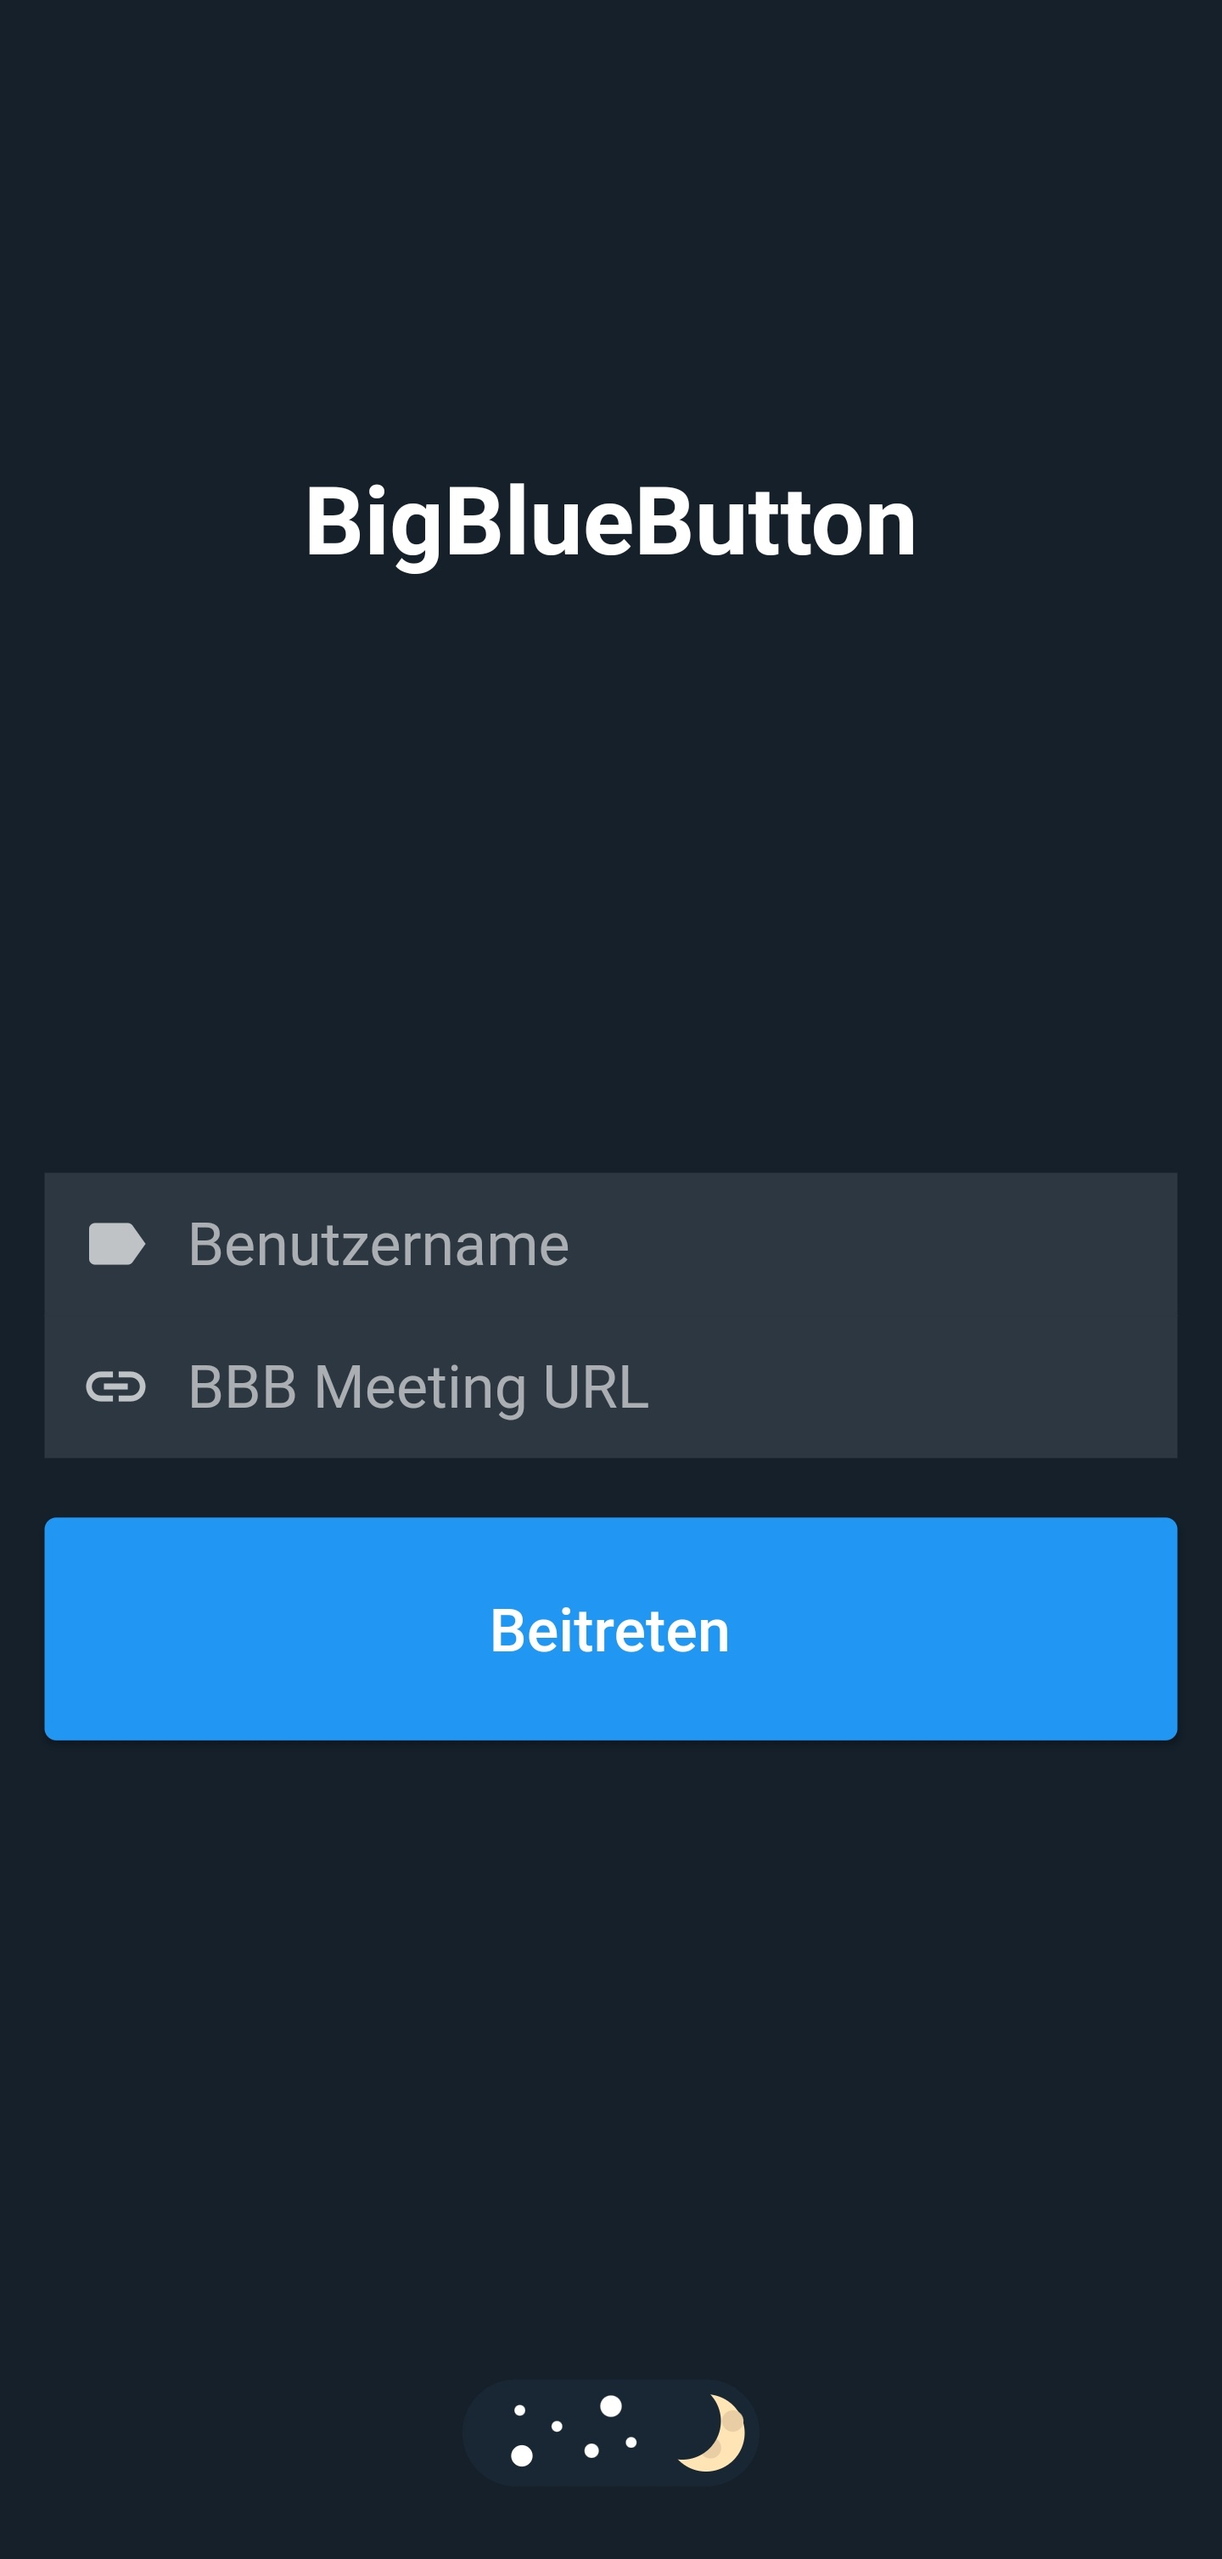
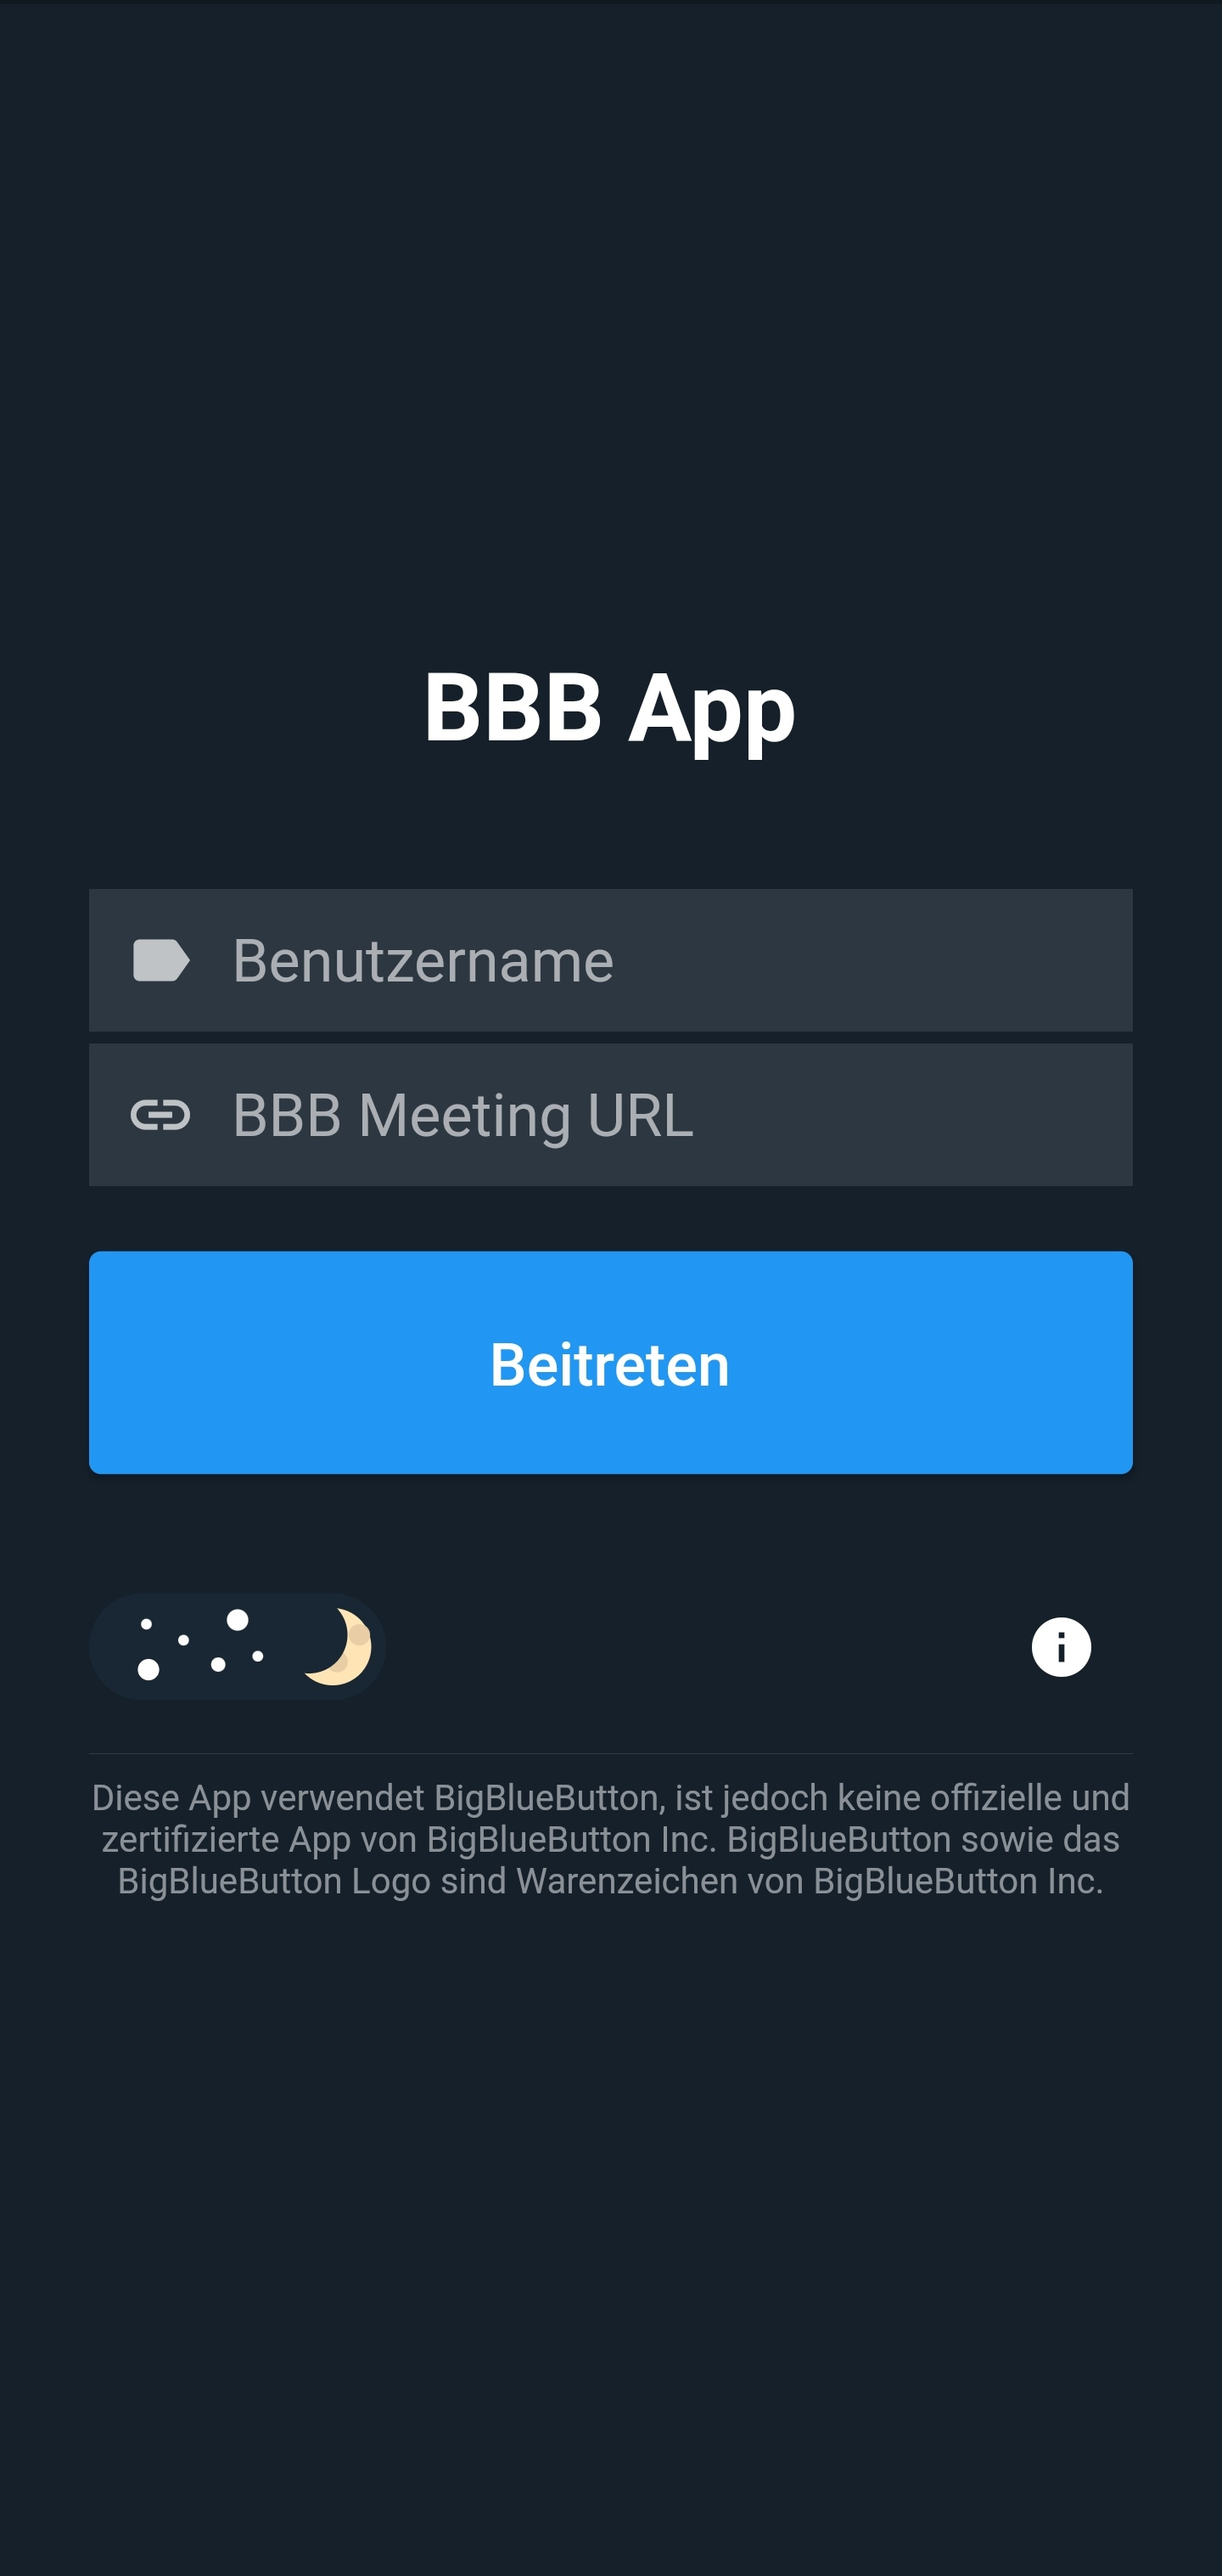
#58 fixed

diff --git a/lib/src/view/start/start_view.dart b/lib/src/view/start/start_view.dart
@@ -41,44 +41,64 @@ class _StartViewState extends State<StartView> {
   @override
   Widget build(BuildContext context) {
     return Scaffold(
-      body: SizedBox.expand(
-        child: Padding(
-          child: Column(
-            crossAxisAlignment: CrossAxisAlignment.center,
-            children: [
-              Expanded(child: SizedBox(), flex: 1),
-              Text(
-                AppLocalizations.of(context).get("bigbluebutton"),
-                style: TextStyle(fontWeight: FontWeight.bold, fontSize: 32.0),
-              ),
-              Expanded(child: SizedBox(), flex: 1),
-              Builder(builder: (context) {
-                return _buildForm(context);
-              }),
-              Expanded(child: SizedBox(), flex: 1),
-              Padding(
-                padding: EdgeInsets.only(top: 5, bottom: 15),
-                child: Row(
-                  mainAxisAlignment: MainAxisAlignment.spaceBetween,
-                  children: [
-                    DayNightSwitcher(
-                      isDarkModeEnabled:
-                          Provider.of<AppStateNotifier>(context, listen: false)
-                              .darkModeEnabled,
-                      onStateChanged: (isDarkModeEnabled) =>
-                          Provider.of<AppStateNotifier>(context, listen: false)
-                              .darkModeEnabled = isDarkModeEnabled,
-                    ),
-                    IconButton(
-                      icon: Icon(Icons.info),
-                      onPressed: () => showAboutDialog(context: context),
-                    ),
-                  ],
+      body: Center(
+        child: SingleChildScrollView(
+          child: Padding(
+            padding: EdgeInsets.symmetric(horizontal: 30),
+            child: Column(
+              children: [
+                Padding(
+                  padding: EdgeInsets.symmetric(vertical: 40),
+                  child: Text(
+                    AppLocalizations.of(context).get("app.title"),
+                    style:
+                        TextStyle(fontWeight: FontWeight.bold, fontSize: 32.0),
+                  ),
                 ),
-              ),
-            ],
+                Builder(builder: (context) {
+                  return _buildForm(context);
+                }),
+                Padding(
+                  padding: EdgeInsets.only(top: 30, bottom: 0),
+                  child: Row(
+                    mainAxisAlignment: MainAxisAlignment.spaceBetween,
+                    children: [
+                      DayNightSwitcher(
+                        isDarkModeEnabled: Provider.of<AppStateNotifier>(
+                                context,
+                                listen: false)
+                            .darkModeEnabled,
+                        onStateChanged: (isDarkModeEnabled) =>
+                            Provider.of<AppStateNotifier>(context,
+                                    listen: false)
+                                .darkModeEnabled = isDarkModeEnabled,
+                      ),
+                      IconButton(
+                        icon: Icon(Icons.info),
+                        onPressed: () => showAboutDialog(context: context),
+                      ),
+                    ],
+                  ),
+                ),
+                Divider(),
+                Padding(
+                  padding: EdgeInsets.only(bottom: 10),
+                  child: Text(
+                    AppLocalizations.of(context).get("start.bbb-trademark"),
+                    textAlign: TextAlign.center,
+                    style: TextStyle(
+                      color: Theme.of(context)
+                          .textTheme
+                          .bodyText1
+                          .color
+                          .withOpacity(0.5),
+                      fontSize: 12.0,
+                    ),
+                  ),
+                ),
+              ],
+            ),
           ),
-          padding: EdgeInsets.symmetric(horizontal: 15),
         ),
       ),
     );
@@ -92,7 +112,7 @@ class _StartViewState extends State<StartView> {
         children: [
           _buildUsernameTextField(),
           Visibility(
-              visible: _accessCodeVisible, child: _buildAccesscodeTextField()),
+              visible: _accessCodeVisible, child: _buildAccessCodeTextField()),
           _buildURLTextField(),
           _buildJoinButton(context),
         ],
@@ -102,55 +122,64 @@ class _StartViewState extends State<StartView> {
 
   /// Build the user name text field.
   Widget _buildUsernameTextField() {
-    return TextFormField(
-      decoration: InputDecoration(
-        hintText: AppLocalizations.of(context).get("login.username"),
-        border: InputBorder.none,
-        filled: true,
-        prefixIcon: Icon(Icons.label),
+    return Padding(
+      padding: EdgeInsets.symmetric(vertical: 2),
+      child: TextFormField(
+        decoration: InputDecoration(
+          hintText: AppLocalizations.of(context).get("login.username"),
+          border: InputBorder.none,
+          filled: true,
+          prefixIcon: Icon(Icons.label),
+        ),
+        style: TextStyle(fontSize: 20.0),
+        validator: (value) => value.isEmpty
+            ? AppLocalizations.of(context).get("login.username-missing")
+            : null,
+        controller: _usernameTextField,
       ),
-      style: TextStyle(fontSize: 20.0),
-      validator: (value) => value.isEmpty
-          ? AppLocalizations.of(context).get("login.username-missing")
-          : null,
-      controller: _usernameTextField,
     );
   }
 
   /// Build the accesscode text field.
-  Widget _buildAccesscodeTextField() {
-    return TextFormField(
-      decoration: InputDecoration(
-        hintText: AppLocalizations.of(context).get("login.accesscode"),
-        border: InputBorder.none,
-        filled: true,
-        prefixIcon: Icon(Icons.label),
+  Widget _buildAccessCodeTextField() {
+    return Padding(
+      padding: EdgeInsets.symmetric(vertical: 2),
+      child: TextFormField(
+        decoration: InputDecoration(
+          hintText: AppLocalizations.of(context).get("login.accesscode"),
+          border: InputBorder.none,
+          filled: true,
+          prefixIcon: Icon(Icons.vpn_key),
+        ),
+        style: TextStyle(fontSize: 20.0),
+        validator: (value) => value.isEmpty
+            ? AppLocalizations.of(context).get("login.accesscode-missing")
+            : null,
+        controller: _accesscodeTextField,
       ),
-      style: TextStyle(fontSize: 20.0),
-      validator: (value) => value.isEmpty
-          ? AppLocalizations.of(context).get("login.accesscode-missing")
-          : null,
-      controller: _accesscodeTextField,
     );
   }
 
   /// Build the text field where the user should input the BBB URL to join the meeting of.
   Widget _buildURLTextField() {
-    return TextFormField(
-      onChanged: (url) async {
-        _handleUrlUpdate(url);
-      },
-      decoration: InputDecoration(
-        hintText: AppLocalizations.of(context).get("login.url"),
-        border: InputBorder.none,
-        filled: true,
-        prefixIcon: Icon(Icons.link),
+    return Padding(
+      padding: EdgeInsets.symmetric(vertical: 2),
+      child: TextFormField(
+        onChanged: (url) async {
+          _handleUrlUpdate(url);
+        },
+        decoration: InputDecoration(
+          hintText: AppLocalizations.of(context).get("login.url"),
+          border: InputBorder.none,
+          filled: true,
+          prefixIcon: Icon(Icons.link),
+        ),
+        style: TextStyle(fontSize: 20.0),
+        validator: (value) => value.isEmpty
+            ? AppLocalizations.of(context).get("login.url-missing")
+            : null,
+        controller: _meetingURLController,
       ),
-      style: TextStyle(fontSize: 20.0),
-      validator: (value) => value.isEmpty
-          ? AppLocalizations.of(context).get("login.url-missing")
-          : null,
-      controller: _meetingURLController,
     );
   }
 

diff --git a/lib/src/locale/app_localizations.dart b/lib/src/locale/app_localizations.dart
@@ -25,9 +25,14 @@ class AppLocalizations {
   /// Initialize the localizations.
   static void _initLocalizations() {
     _addLocalization(_Localization(
-      "bigbluebutton",
-      en: "BigBlueButton",
-      de: "BigBlueButton",
+      "app.title",
+      en: "BBB App",
+      de: "BBB App",
+    ));
+    _addLocalization(_Localization(
+      "start.bbb-trademark",
+      en: "This app uses BigBlueButton and is not endorsed or certified by BigBlueButton Inc. BigBlueButton and the BigBlueButton Logo are trademarks of BigBlueButton Inc.",
+      de: "Diese App verwendet BigBlueButton, ist jedoch keine offizielle und zertifizierte App von BigBlueButton Inc. BigBlueButton sowie das BigBlueButton Logo sind Warenzeichen von BigBlueButton Inc.",
     ));
     _addLocalization(_Localization(
       "back",
